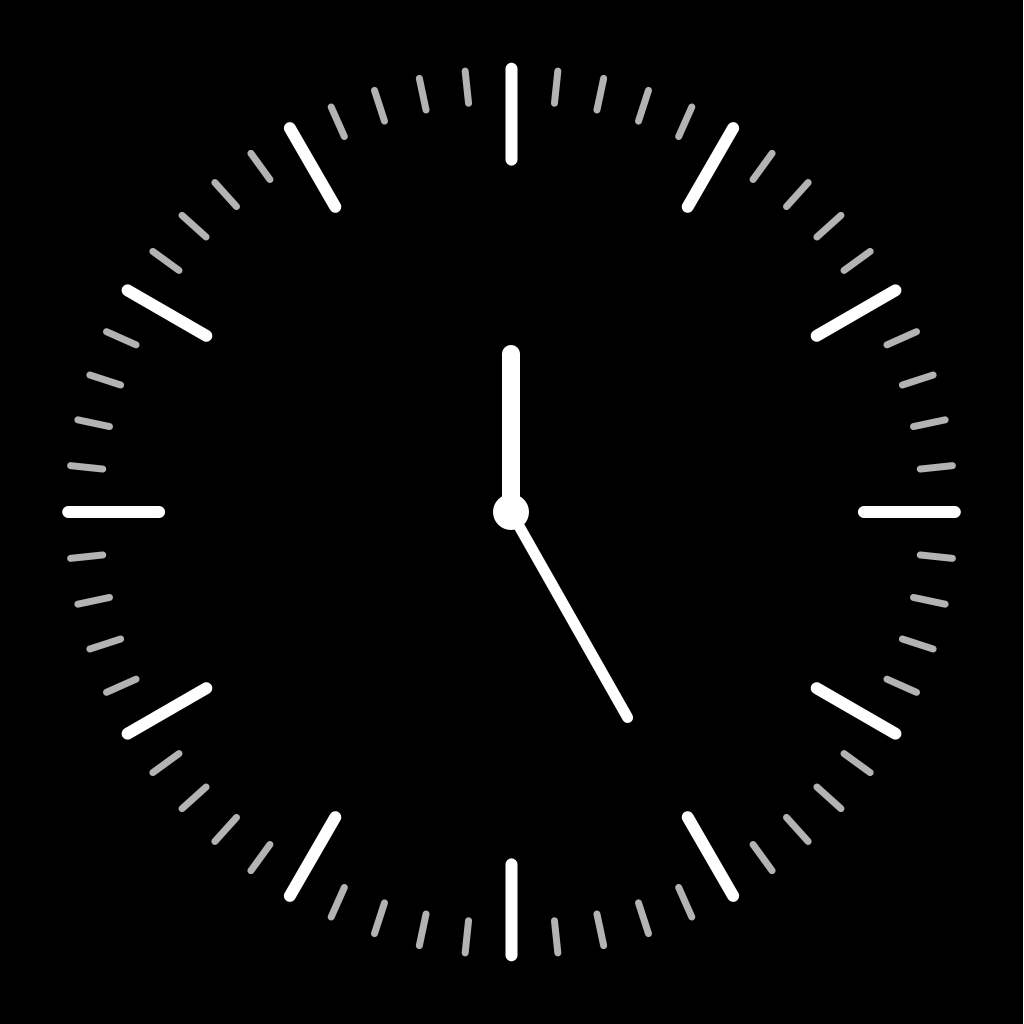
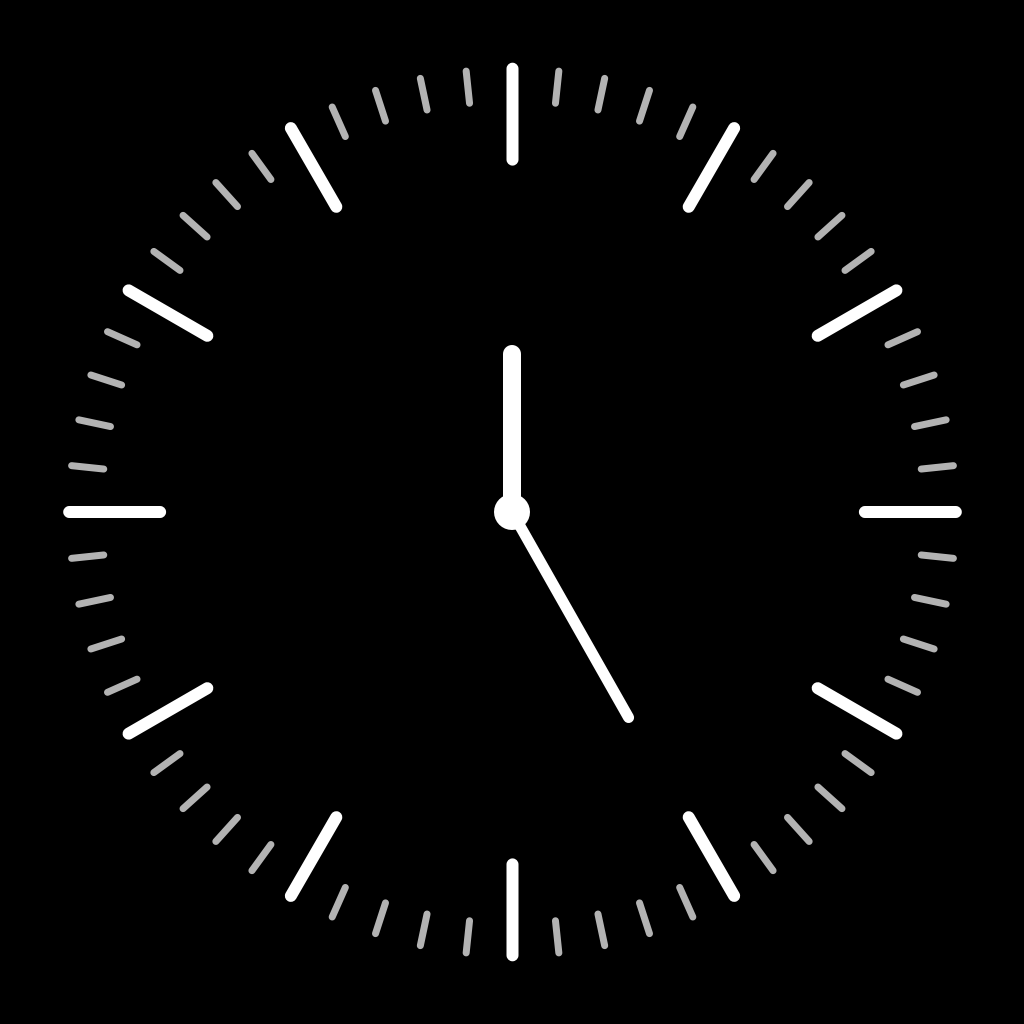
[update]:Version 2

diff --git a/meditation/modules/styles/NihongView.swift b/meditation/modules/styles/NihongView.swift
@@ -8,6 +8,16 @@
 
 import UIKit
 
+
+let shenseColor =  UIColor.init(red: 142.0/255.0, green: 41.0/255.0, blue: 84.0/255.0, alpha: 1)
+
+let qianseColor = UIColor.init(red: 1, green: 167.0/255.0, blue: 201.0/255.0, alpha: 1)
+
+let blueShenseColor =  UIColor.init(red: 55.0/255.0, green: 175.0/255.0, blue: 219.0/255.0, alpha: 1)
+
+let blueQianseColor = UIColor.init(red: 128.0/255.0, green: 211.0/255.0, blue: 243.0/255.0, alpha: 1)
+
+
 let font = UIFont.init(name: "Hiragino Maru Gothic ProN", size: 20) ?? UIFont.systemFont(ofSize: 20)
 let strokeTextAttributes =  [
     NSAttributedString.Key.foregroundColor :  blueShenseColor,
